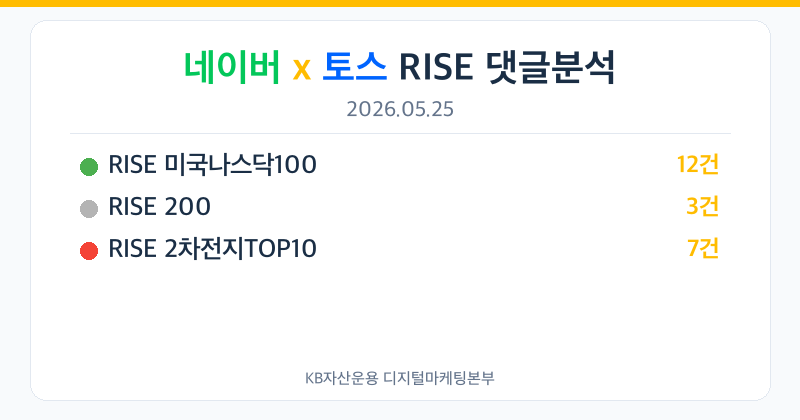
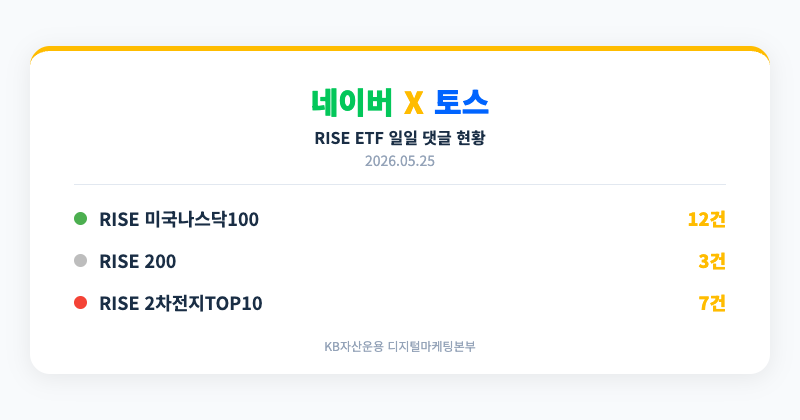
final: redesigned thumbnail and html

diff --git a/RISE_Comment_Report_20260525.html b/RISE_Comment_Report_20260525.html
@@ -3,7 +3,7 @@
 <head>
 <meta charset="UTF-8">
 <meta name="viewport" content="width=device-width, initial-scale=1.0">
-<title>RISE ETF 댓글 리포트 (2026.05.25)</title>
+<title>네이버 X 토스 RISE ETF 일일 댓글 현황 (2026.05.25)</title>
 <style>
 * { margin:0; padding:0; box-sizing:border-box; }
 body { font-family:-apple-system,BlinkMacSystemFont,'Noto Sans KR','Pretendard',sans-serif; background:linear-gradient(135deg,#F4F7F9 0%,#E8EEF3 100%); color:#2C3E50; padding:30px 20px; line-height:1.5; }
@@ -40,9 +40,11 @@ body { font-family:-apple-system,BlinkMacSystemFont,'Noto Sans KR','Pretendard',
 .comment:last-child { border-bottom:none; }
 .comment-meta { display:flex; align-items:center; gap:8px; margin-bottom:4px; flex-wrap:wrap; }
 .badge { color:#fff; font-size:11px; padding:2px 7px; border-radius:4px; font-weight:500; }
-.author { font-size:12px; color:#333; font-weight:500; }
+.author { font-size:12px; color:#333; font-weight:600; }
 .date { font-size:11px; color:#999; }
+.meta-stat { font-size:11px; color:#888; }
 .comment-body { font-size:13px; color:#444; word-break:break-word; }
+.more-note { text-align:center; padding:10px; font-size:12px; color:#999; }
 
 /* 하단 조용한 종목 */
 .silent-section { background:#fff; border-radius:10px; padding:16px; box-shadow:0 2px 8px rgba(0,0,0,0.06); }
@@ -73,7 +75,7 @@ body { font-family:-apple-system,BlinkMacSystemFont,'Noto Sans KR','Pretendard',
   <!-- 1) 히어로 -->
   <div class="hero">
     <div class="hero-top">
-      <h1><span class="hero-naver">네이버</span> <span style="color:#FFBC00">x</span> <span class="hero-toss">토스</span> 댓글분석</h1>
+      <h1><span class="hero-naver">네이버</span> <span style="color:#FFBC00">X</span> <span class="hero-toss">토스</span> RISE ETF 일일 댓글 현황</h1>
       <div class="hero-org">KB자산운용<b>디지털마케팅본부</b></div>
     </div>
     <div class="hero-date">2026.05.25</div>
@@ -94,23 +96,74 @@ body { font-family:-apple-system,BlinkMacSystemFont,'Noto Sans KR','Pretendard',
             <span class="count">12건</span>
             <span class="arrow">▼</span>
           </div>
-          <div class="card-summary">나스닥 신고가 기대감에 매수 의견</div>
+          <div class="card-summary">나스닥 신고가 기대감에 매수 의견 다수</div>
           <div class="card-detail">
-            <div class="comment">
-              <div class="comment-meta">
-                <span class="badge" style="background:#0064FF">토스</span>
-                <span class="author">토스유저</span>
-                <span class="date">2026.05.25 15:00</span>
-              </div>
-              <div class="comment-body">추가 매수 고민 중</div>
-            </div>
             <div class="comment">
               <div class="comment-meta">
                 <span class="badge" style="background:#03C75A">네이버</span>
                 <span class="author">투자자A</span>
-                <span class="date">2026.05.25 14:30</span>
+                <span class="date">2026.05.25 14:30</span> <span class="meta-stat">❤️ 15</span> <span class="meta-stat">👁 342</span>
               </div>
-              <div class="comment-body">나스닥 신고가 돌파 기대</div>
+              <div class="comment-body">나스닥 신고가 돌파 기대감. 추가 매수 예정입니다.</div>
+            </div>
+            <div class="comment">
+              <div class="comment-meta">
+                <span class="badge" style="background:#03C75A">네이버</span>
+                <span class="author">장기투자</span>
+                <span class="date">2026.05.25 13:00</span> <span class="meta-stat">❤️ 8</span> <span class="meta-stat">👁 120</span>
+              </div>
+              <div class="comment-body">꾸준히 적립식으로 모아가는 중</div>
+            </div>
+            <div class="comment">
+              <div class="comment-meta">
+                <span class="badge" style="background:#03C75A">네이버</span>
+                <span class="author">ETF초보</span>
+                <span class="date">2026.05.25 11:00</span> <span class="meta-stat">❤️ 3</span> <span class="meta-stat">👁 89</span>
+              </div>
+              <div class="comment-body">처음 사봤는데 수익률 좋네요</div>
+            </div>
+            <div class="comment">
+              <div class="comment-meta">
+                <span class="badge" style="background:#0064FF">토스</span>
+                <span class="author">토스유저</span>
+                <span class="date">2026.05.25 15:00</span> <span class="meta-stat">❤️ 5</span>
+              </div>
+              <div class="comment-body">미국 시장 강세 지속될까? 추가 매수 고민 중</div>
+            </div>
+            <div class="comment">
+              <div class="comment-meta">
+                <span class="badge" style="background:#0064FF">토스</span>
+                <span class="author">나스닥러버</span>
+                <span class="date">2026.05.25 12:00</span> <span class="meta-stat">❤️ 2</span>
+              </div>
+              <div class="comment-body">QQQ보다 이게 낫다</div>
+            </div>
+          </div>
+        </div>
+        <div class="card">
+          <div class="card-header" onclick="this.parentElement.classList.toggle('open')">
+            <span class="dot" style="background:#F44336" title="부정"></span>
+            <span class="etf-name">RISE 2차전지TOP10</span>
+            <span class="count">7건</span>
+            <span class="arrow">▼</span>
+          </div>
+          <div class="card-summary">실적 시즌 앞두고 기대와 손절 의견 혼재</div>
+          <div class="card-detail">
+            <div class="comment">
+              <div class="comment-meta">
+                <span class="badge" style="background:#03C75A">네이버</span>
+                <span class="author">전지맨</span>
+                <span class="date">2026.05.25 09:30</span> <span class="meta-stat">❤️ 10</span> <span class="meta-stat">👁 200</span>
+              </div>
+              <div class="comment-body">실적 발표 앞두고 기대감 있음</div>
+            </div>
+            <div class="comment">
+              <div class="comment-meta">
+                <span class="badge" style="background:#0064FF">토스</span>
+                <span class="author">배터리</span>
+                <span class="date">2026.05.25 16:00</span> <span class="meta-stat">❤️ 1</span>
+              </div>
+              <div class="comment-body">손절 고민 중입니다</div>
             </div>
           </div>
         </div>
@@ -127,36 +180,9 @@ body { font-family:-apple-system,BlinkMacSystemFont,'Noto Sans KR','Pretendard',
               <div class="comment-meta">
                 <span class="badge" style="background:#03C75A">네이버</span>
                 <span class="author">분석가B</span>
-                <span class="date">2026.05.25 10:00</span>
+                <span class="date">2026.05.25 10:00</span> <span class="meta-stat">❤️ 22</span> <span class="meta-stat">👁 450</span>
               </div>
-              <div class="comment-body">횡보 구간 관망</div>
-            </div>
-          </div>
-        </div>
-        <div class="card">
-          <div class="card-header" onclick="this.parentElement.classList.toggle('open')">
-            <span class="dot" style="background:#F44336" title="부정"></span>
-            <span class="etf-name">RISE 2차전지TOP10</span>
-            <span class="count">7건</span>
-            <span class="arrow">▼</span>
-          </div>
-          <div class="card-summary">실적 시즌 앞두고 기대와 손절 혼재</div>
-          <div class="card-detail">
-            <div class="comment">
-              <div class="comment-meta">
-                <span class="badge" style="background:#0064FF">토스</span>
-                <span class="author">배터리</span>
-                <span class="date">2026.05.25 16:00</span>
-              </div>
-              <div class="comment-body">손절 고민</div>
-            </div>
-            <div class="comment">
-              <div class="comment-meta">
-                <span class="badge" style="background:#03C75A">네이버</span>
-                <span class="author">전지맨</span>
-                <span class="date">2026.05.25 09:30</span>
-              </div>
-              <div class="comment-body">실적 발표 기대</div>
+              <div class="comment-body">횡보 구간 관망 추천. 2700 지지 확인 후 진입</div>
             </div>
           </div>
         </div>
@@ -165,7 +191,7 @@ body { font-family:-apple-system,BlinkMacSystemFont,'Noto Sans KR','Pretendard',
   <!-- 3) 조용했던 종목 -->
   <div class="silent-section" onclick="this.classList.toggle('open')">
     <div class="silent-header">📌 어제 조용했던 종목 135개 (펼치기)</div>
-    <div class="silent-list">RISE 골드, RISE 단기통안채</div>
+    <div class="silent-list">RISE 골드, RISE 단기통안채, RISE 머니마켓액티브, RISE CD금리액티브, RISE 리츠부동산인프라</div>
   </div>
 
 </div>